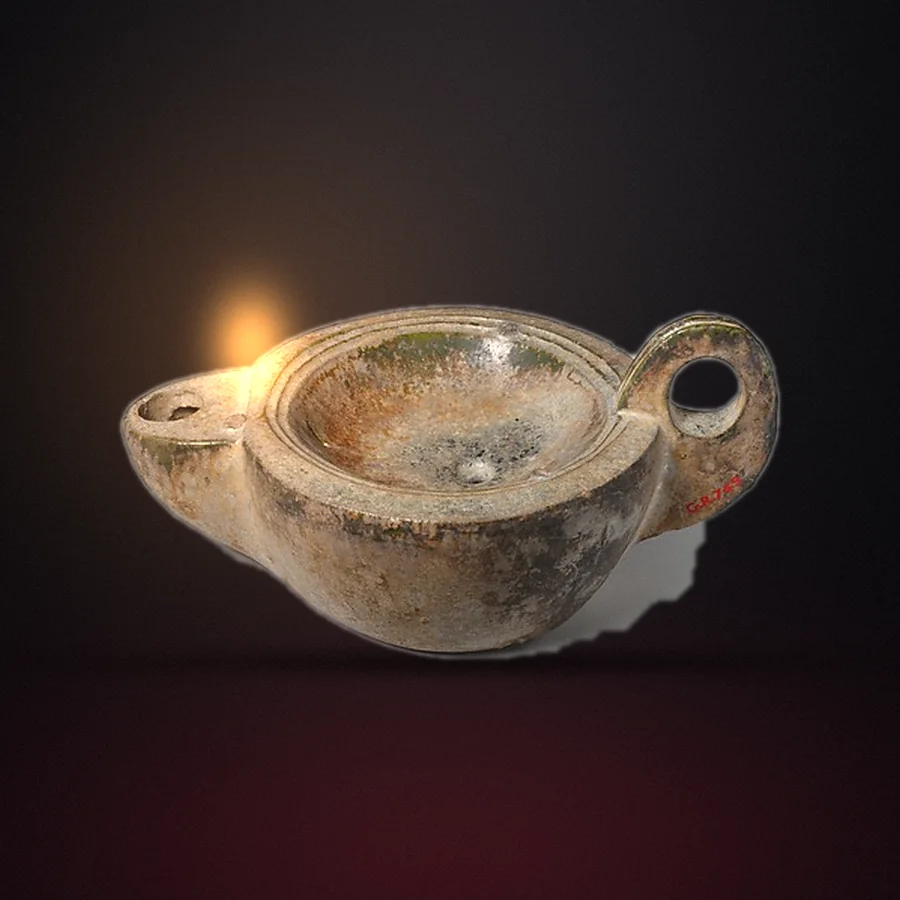
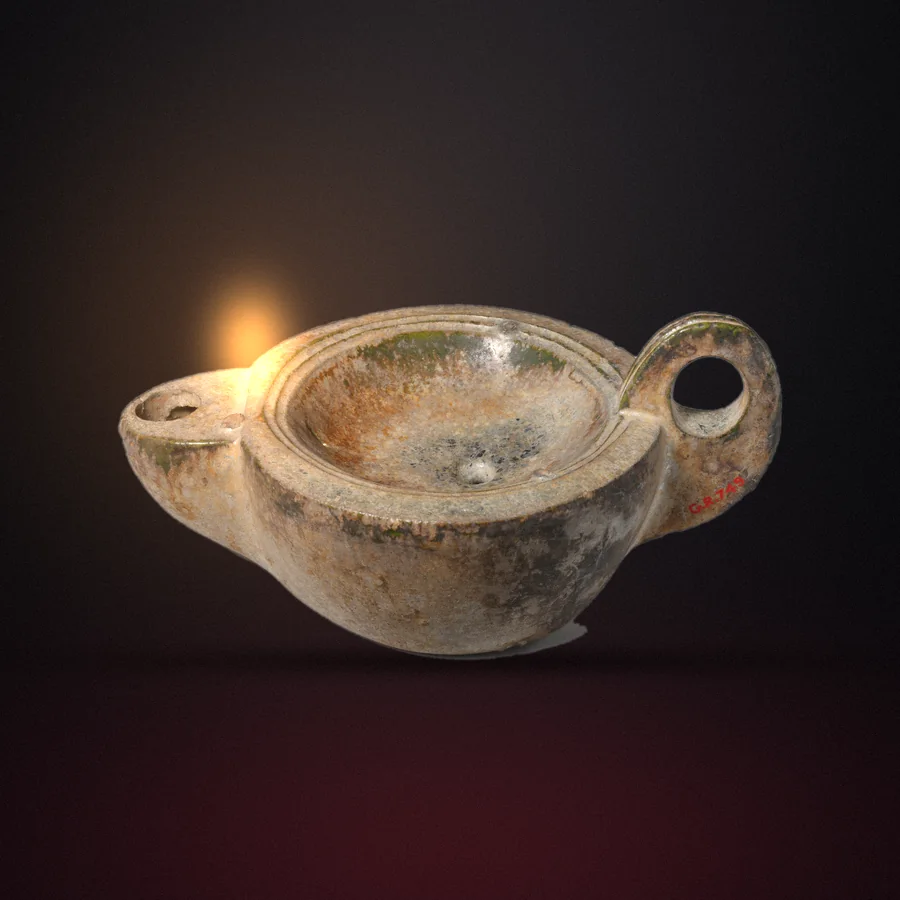
the-rising-archive: audit round: contrast, notice, grids, a timeline spoiler, idea readings, cleaner cut-outs
- Contrast: ash-2 was 3.6:1 on the page and ~3:1 on the card wash across
  133 labels; now 4.6:1 on the wash, ash a step up to keep the levels
  apart. Small red text takes a lighter red (pure red is 3.4:1).
- 13px floor for labels, credits, stamps and badges.
- The sealed-passages notice no longer covers content: it sits in the
  empty band under the header and scrolls away, one line at 320px.
- Hairline grids draw a ring per cell instead of painting the grid slate,
  so rows that aren't full no longer show solid slate blocks.
- Timeline: event titles ('The Fall of Luna', 'The Solar Republic')
  leaked at every clearance; below a node's book it reads 'An event in
  <book>' and the title opens with the seal. Same for the no-JS list.
- Freedom, Revolution, Honor, Legacy and Fatherhood open with a
  spoiler-free reading instead of nothing but seals at clearance 0.
- The Augustus lion loses its museum plinth; lion, fox and lamp come from
  the Met's full-resolution originals with the grey scraps removed.
- Holotech stamp spacing, transition-all in the vendored button/switch,
  the search placeholder, and a stale 'rendered' caption.

Claude-Session: https://claude.ai/code/session_013FcwhpvnvFTAqo8e5UMege

diff --git a/the-rising-archive/lib/data/ideas.ts b/the-rising-archive/lib/data/ideas.ts
@@ -22,6 +22,7 @@ export const IDEAS: Idea[] = [
     plate: "/images/rising/movement.webp",
     plateAlt: "Washington Crossing the Delaware: a boat of rebels crossing a frozen river.",
     lines: [
+      { text: "The Society is built so that every Color knows its place and never leaves it. Freedom here isn’t one thing: it means something different to each Color, because each was made for a different cage.", book: 0 },
       { text: "It starts with Eo, who asks Darrow to live for more than survival, and pays for the asking.", book: 1 },
       { text: "The first trilogy is about getting free. The second is about what freedom is worth to a Red girl in a refugee camp ten years later. Lyria’s chapters in Iron Gold ask the question the Rising didn’t have time to.", book: 4 },
     ],
@@ -44,6 +45,7 @@ export const IDEAS: Idea[] = [
     plate: "/images/rising/government.webp",
     plateAlt: "The Death of Socrates: a state executes its own philosopher.",
     lines: [
+      { text: "Tearing a hierarchy down and deciding what to build in its place are two different problems, and the saga treats both of them as the story.", book: 0 },
       { text: "The Rising wins. That is where the hard part starts.", book: 3 },
       { text: "The Republic keeps the Senate, the fleets and the broadcasts. It has to decide how much else of the old world to keep, and every choice is someone else’s betrayal.", book: 4 },
     ],
@@ -55,7 +57,9 @@ export const IDEAS: Idea[] = [
     plate: "/images/portraits/cassius.webp",
     plateAlt: "Cassius au Bellona, in fan art.",
     portrait: { slug: "cassius", name: "Cassius au Bellona" },
-    lines: [],
+    lines: [
+      { text: "Honor sounds like one word. In the Society it means something different to everyone who uses it: a family inheritance, a code of combat, a debt to a people, an argument for keeping everyone in their place. Four people below, four definitions.", book: 0 },
+    ],
     pairs: [
       { a: "Cassius", b: "Honour as inheritance", note: "The thing he was raised on, and has to relearn after it is used against him.", book: 1 },
       { a: "Lorn", b: "Honour as refusal", note: "A legend of the razor who tried to step away from the Society’s violence.", book: 2 },
@@ -71,7 +75,9 @@ export const IDEAS: Idea[] = [
     plateAlt: "The cover of Light Bringer.",
     plateW: 900,
     plateH: 1350,
-    lines: [],
+    lines: [
+      { text: "Legacy is what gets handed down whether anyone wants it or not: a name, a Color, a grudge, a dream. The saga keeps checking what each person was given, and what they chose to keep.", book: 0 },
+    ],
     pairs: [
       { a: "Eo", b: "A dream", note: "That a life could be more than labour.", book: 1 },
       { a: "Darrow", b: "A war", note: "Fought to make the dream possible.", book: 3 },
@@ -87,7 +93,9 @@ export const IDEAS: Idea[] = [
     plate: "/images/portraits/pax.webp",
     plateAlt: "Pax, in fan art.",
     portrait: { slug: "pax", name: "Pax" },
-    lines: [],
+    lines: [
+      { text: "The saga keeps returning to what parents hand their children: a name, a cause, a debt, a way of seeing the world. Each pairing below is a parent, a child, and what passed between them.", book: 0 },
+    ],
     pairs: [
       { a: "Fitchner", b: "Sevro", note: "A father his son thought didn’t care.", book: 1 },
       { a: "Nero", b: "Virginia and Adrius", note: "Two children, raised to win. One refused.", book: 2 },

diff --git a/the-rising-archive/components/sections/Timeline.tsx b/the-rising-archive/components/sections/Timeline.tsx
@@ -7,6 +7,8 @@ import { ScrollTrigger } from "gsap/ScrollTrigger";
 import { useGSAP } from "@gsap/react";
 import SpoilerGate from "@/components/archive/SpoilerGate";
 import Stamp from "@/components/archive/Stamp";
+import { useArchive } from "@/components/providers/ArchiveProvider";
+import { BOOK_TITLES } from "@/lib/data/spoilers";
 import { TIMELINE, type TimelineNode } from "@/lib/data/timeline";
 import { cssEase, duration, prefersReducedMotion } from "@/lib/animation/tokens";
 import { cn } from "@/lib/utils";
@@ -22,10 +24,11 @@ function Field({ label, children }: { label: string; children: React.ReactNode }
   );
 }
 
-function NodeBody({ node }: { node: TimelineNode }) {
+function NodeBody({ node, named }: { node: TimelineNode; named: boolean }) {
   return (
     <dl className="grid gap-6 pt-6 pb-2 md:grid-cols-2">
       <div className="md:col-span-2">
+        {!named && <p className="mb-2 font-display text-h3 leading-none font-bold text-bone uppercase">{node.title}</p>}
         <p className="max-w-[62ch] text-lede text-bone">{node.summary}</p>
       </div>
       {node.where && <Field label="Where">{node.where}</Field>}
@@ -42,6 +45,9 @@ export default function Timeline() {
   const [open, setOpen] = useState<string | null>("eo");
   const reduce = useReducedMotion();
   const ref = useRef<HTMLOListElement>(null);
+  // Titles spoil too ("The Fall of Luna"): below the node's book the list
+  // says only which book it happens in, and the title waits inside the seal.
+  const { clearance } = useArchive();
 
   useGSAP(
     () => {
@@ -70,6 +76,7 @@ export default function Timeline() {
       {TIMELINE.map((node) => {
         const isOpen = open === node.slug;
         const sealed = node.status === "sealed";
+        const named = clearance >= node.book;
         return (
           <li key={node.slug} className="relative grid gap-2 pb-10 pl-10 md:grid-cols-[120px_1fr] md:gap-10 md:pl-0">
             <span className="font-mono text-meta leading-7 tracking-[0.14em] text-ash uppercase md:text-right">{node.when}</span>
@@ -100,9 +107,10 @@ export default function Timeline() {
                       className={cn(
                         "-my-1 py-1 text-left font-display text-h3 leading-none font-bold uppercase transition-colors",
                         isOpen ? "text-bone" : "text-bone/70 hover:text-bone",
+                        !named && "text-ash",
                       )}
                     >
-                      {node.title}
+                      {named ? node.title : `An event in ${BOOK_TITLES[node.book]}`}
                     </button>
                   </h3>
                   <AnimatePresence initial={false}>
@@ -118,7 +126,7 @@ export default function Timeline() {
                       >
                         <div className="pt-2">
                           <SpoilerGate book={node.book} compact>
-                            <NodeBody node={node} />
+                            <NodeBody node={node} named={named} />
                           </SpoilerGate>
                         </div>
                       </motion.div>

diff --git a/the-rising-archive/components/archive/SealedNotice.tsx b/the-rising-archive/components/archive/SealedNotice.tsx
@@ -8,7 +8,9 @@ import { CLEARANCE_LEVELS } from "@/lib/data/spoilers";
 
 /** At low clearance a page can be mostly sealed bars, which reads as empty.
  * This says so plainly, counts what is sealed, and offers the two real
- * choices: unseal this page only, or change clearance. */
+ * choices: unseal this page only, or change clearance. It sits in the empty
+ * band under the header at the top of the page and scrolls away with it:
+ * as a fixed pill it covered text and sealed rows on nearly every page. */
 export default function SealedNotice() {
   const pathname = usePathname();
   const { clearance, known, openClearance } = useArchive();
@@ -32,22 +34,22 @@ export default function SealedNotice() {
   return (
     <aside
       aria-label="Sealed passages on this page"
-      className="fixed right-4 bottom-4 z-30 flex max-w-[calc(100vw-2rem)] flex-wrap items-center gap-x-4 gap-y-2 border border-line-strong bg-void-2/95 py-2.5 pr-2 pl-4 font-mono text-[0.68rem] tracking-[0.16em] text-ash uppercase shadow-[0_10px_40px_rgba(0,0,0,0.6)] backdrop-blur-md"
+      className="absolute top-[calc(var(--nav-h)+0.75rem)] right-5 z-30 flex max-w-[calc(100vw-2.5rem)] items-center gap-x-2.5 border border-line-strong bg-void-2/90 py-0.5 pr-0.5 pl-3 font-mono text-meta tracking-[0.08em] whitespace-nowrap text-ash uppercase sm:tracking-[0.14em] md:right-8 md:gap-x-4"
     >
       <span>
-        <span className="text-bone">{count}</span> sealed here <span className="text-ash-2">({lvl?.short})</span>
+        <span className="text-bone">{count}</span> sealed<span className="hidden sm:inline"> here ({lvl?.short})</span>
       </span>
       <button
         type="button"
         onClick={() => document.querySelectorAll<HTMLDetailsElement>("main details.spoiler").forEach((d) => (d.open = true))}
-        className="text-bone underline decoration-red underline-offset-4 hover:text-red"
+        className="py-1.5 text-bone underline decoration-red underline-offset-4 hover:text-red"
       >
-        Unseal this page
+        Unseal<span className="hidden sm:inline"> this page</span>
       </button>
-      <button type="button" onClick={openClearance} className="hover:text-bone">
+      <button type="button" onClick={openClearance} className="py-1.5 hover:text-bone">
         Clearance
       </button>
-      <button type="button" aria-label="Dismiss" onClick={() => setDismissed(pathname)} className="flex size-7 items-center justify-center text-ash-2 hover:text-bone">
+      <button type="button" aria-label="Dismiss" onClick={() => setDismissed(pathname)} className="flex size-8 items-center justify-center text-ash hover:text-bone">
         <X className="size-3.5" strokeWidth={1.5} />
       </button>
     </aside>

diff --git a/the-rising-archive/app/people/[slug]/page.tsx b/the-rising-archive/app/people/[slug]/page.tsx
@@ -50,7 +50,7 @@ function Special({ person }: { person: Person }) {
           <h2 className="font-display text-h3 font-bold uppercase">The same man, two columns</h2>
           <p className="mt-3 max-w-[56ch] text-ash">The archive does not tell you which column is true. Let the contradiction breathe.</p>
           <SpoilerGate book={4} className="mt-10">
-            <div className="mt-10 grid gap-px bg-line md:grid-cols-2">
+            <div className="mt-10 grid hairline md:grid-cols-2">
               <Spotlight tone="gold" lift={false} className="bg-void p-8">
                 <p className="font-mono text-meta tracking-[0.18em] text-gold uppercase">What Lysander believes</p>
                 <ul className="mt-6 space-y-3 font-serif text-3xl" role="list">
@@ -140,7 +140,7 @@ export default async function DossierPage({ params }: PageProps<"/people/[slug]"
             <span aria-hidden className={cn("h-px w-12", RULE_CLASS[person.register])} />
             <p className={cn("font-serif text-h3 italic", ACCENT_CLASS[person.register])}><PersonName person={person} part="epithet" /></p>
             {person.epithetSource === "archive" && (
-              <span className="border border-line-strong px-1.5 py-0.5 font-mono text-[0.65rem] tracking-[0.18em] text-ash-2 uppercase">The archive’s name, not the books’</span>
+              <span className="border border-line-strong px-1.5 py-0.5 font-mono text-meta tracking-[0.18em] text-ash-2 uppercase">The archive’s name, not the books’</span>
             )}
           </div>
           <dl className="mt-12 grid max-w-4xl gap-6 md:grid-cols-3">
@@ -237,7 +237,7 @@ export default async function DossierPage({ params }: PageProps<"/people/[slug]"
         <section aria-label="Core relationships" className="border-t border-line px-5 py-20 md:px-8">
           <div className="mx-auto max-w-[1400px]">
             <h2 className="font-display text-h3 font-bold uppercase">Core relationships</h2>
-            <ul className="mt-8 grid gap-px bg-line md:grid-cols-4" role="list">
+            <ul className="mt-8 grid hairline md:grid-cols-4" role="list">
               {person.bonds.map((b) => (
                 <Spotlight as="li" tone="red" key={b.name} className="bg-void p-6">
                   <p className="font-display text-2xl font-bold uppercase">{b.name}</p>

diff --git a/the-rising-archive/app/world/houses/[slug]/page.tsx b/the-rising-archive/app/world/houses/[slug]/page.tsx
@@ -72,7 +72,7 @@ export default async function HousePage({ params }: PageProps<"/world/houses/[sl
           </div>
           <figure>
             <Plate src={h.plate} alt={altFor(h.plate, `The ${h.name} seal.`)} priority className="border border-line" />
-            <figcaption className="mt-3 font-mono text-[0.7rem] tracking-[0.12em] text-ash-2 uppercase">A stand-in for the house’s sign. {creditLine(h.plate)}</figcaption>
+            <figcaption className="mt-3 font-mono text-meta tracking-[0.12em] text-ash-2 uppercase">A stand-in for the house’s sign. {creditLine(h.plate)}</figcaption>
           </figure>
         </div>
       </header>
@@ -80,7 +80,7 @@ export default async function HousePage({ params }: PageProps<"/world/houses/[sl
       <section aria-labelledby="members" className="border-t border-line px-5 py-20 md:px-8">
         <div className="mx-auto grid max-w-[1400px] gap-12 md:grid-cols-[3fr_9fr]">
           <h2 id="members" className="font-mono text-meta tracking-[0.18em] text-ash-2 uppercase md:pt-2">The family file</h2>
-          <ul role="list" className="grid gap-px bg-line">
+          <ul role="list" className="grid hairline">
             {h.members.map((m) => (
               <li key={m.name} className="bg-void py-6 md:px-6">
                 <SpoilerGate book={m.book} compact>
@@ -104,7 +104,7 @@ export default async function HousePage({ params }: PageProps<"/world/houses/[sl
         <section aria-labelledby="artifacts" className="border-t border-line px-5 py-20 md:px-8">
           <div className="mx-auto grid max-w-[1400px] gap-12 md:grid-cols-[3fr_9fr]">
             <h2 id="artifacts" className="font-mono text-meta tracking-[0.18em] text-ash-2 uppercase md:pt-2">Archive artifacts</h2>
-            <ol className="grid gap-px bg-line sm:grid-cols-2">
+            <ol className="grid hairline sm:grid-cols-2">
               {h.artifacts.map((a, i) => (
                 <Spotlight as="li" tone="gold" key={a.title} className="bg-void p-6 md:p-8">
                   <p className="font-mono text-meta tracking-[0.2em] text-red uppercase">Item {String(i + 1).padStart(2, "0")}</p>

diff --git a/the-rising-archive/app/world/vault/page.tsx b/the-rising-archive/app/world/vault/page.tsx
@@ -25,11 +25,11 @@ export default function VaultPage() {
         lede="The machinery of the war, catalogued like museum pieces. Where something real comes close, it stands in: a real sword for the razor, real armour for the StarShell, a video game’s warships for the fleet, a hairpin for the PsychoSpike."
       />
       <section aria-label="Artifacts" className="px-5 pb-20 md:px-8">
-        <ul role="list" className="mx-auto grid max-w-[1400px] gap-px bg-line md:grid-cols-2">
+        <ul role="list" className="mx-auto grid max-w-[1400px] hairline md:grid-cols-2">
           {VAULT.map((a, i) => (
             <Reveal as="li" cell key={a.slug} delay={(i % 2) * 0.06} className="bg-void">
               <Spotlight as="article" tone="red" className={cn("grid h-full gap-0 sm:grid-cols-2", i % 4 >= 2 && "sm:[&>*:first-child]:order-2")}>
-                <Plate src={a.plate} alt={altFor(a.plate, `${a.name}, rendered for this archive.`)} className="aspect-square object-cover" sizes="(min-width: 768px) 25vw, 50vw" />
+                <Plate src={a.plate} alt={altFor(a.plate, `${a.name}.`)} className="aspect-square object-cover" sizes="(min-width: 768px) 25vw, 50vw" />
                 <div className="flex flex-col p-6 md:p-8">
                   <h2 className="font-display text-3xl leading-none font-bold uppercase">{a.name}</h2>
                   <p className="mt-3 font-serif text-lg text-bone/90 italic">{a.line}</p>
@@ -40,8 +40,8 @@ export default function VaultPage() {
                       </SpoilerGate>
                     ))}
                   </div>
-                  {a.reading && <Stamp kind="reading" className="mt-auto self-start pt-0" />}
-                  <p className="mt-6 font-mono text-[0.7rem] tracking-[0.12em] text-ash-2 uppercase">{creditLine(a.plate) || "Archive render"}</p>
+                  {a.reading && <Stamp kind="reading" className="mt-5 self-start" />}
+                  <p className="mt-6 font-mono text-meta tracking-[0.12em] text-ash-2 uppercase">{creditLine(a.plate) || "Archive render"}</p>
                 </div>
               </Spotlight>
             </Reveal>

diff --git a/the-rising-archive/app/globals.css b/the-rising-archive/app/globals.css
@@ -25,8 +25,8 @@
   --line-strong: #3a3a45;
 
   --bone: #e9e4da;
-  --ash: #938f88;
-  --ash-2: #6b6862;
+  --ash: #a39f97;
+  --ash-2: #8a867f;
 
   --red: #c41e2a;
   --red-deep: #7a0f17;
@@ -131,7 +131,7 @@
 
   /* type scale: editorial, dramatic at the top, calm in the body */
   --text-eyebrow: 0.6875rem;
-  --text-meta: 0.75rem;
+  --text-meta: 0.8125rem;
   --text-body: 1.0625rem;
   --text-lede: clamp(1.2rem, 1.1rem + 0.6vw, 1.5rem);
   --text-h3: clamp(1.4rem, 1.2rem + 0.8vw, 1.9rem);
@@ -284,6 +284,20 @@ nav[aria-label="Breadcrumb"] a {
   .gold-foil { background: none; color: CanvasText; }
 }
 
+/* Hairline grids: cells separated by 1px lines. Each cell draws its own
+   ring into the gap, instead of the grid painting its whole background in
+   the line colour, which showed as a solid slate block wherever a row
+   wasn't full (and through the gap while a cell moved). Empty cells now
+   show the page. */
+@layer components {
+  .hairline {
+    gap: 1px;
+  }
+  .hairline > * {
+    box-shadow: 0 0 0 1px var(--line);
+  }
+}
+
 @layer components {
 .wash-card {
   --w-rest: rgba(122, 15, 23, 0.42);
@@ -374,6 +388,13 @@ nav[aria-label="Breadcrumb"] a {
     transition-duration: 150ms;
   }
 }
+}
+
+/* Pure red is 3.4:1 on the page, fine for display type but not for small
+   labels. Small red text takes a lighter red (5:1 on the page, 4.5:1 in
+   the burgundy corners); large red type keeps the true accent. */
+:is(.text-meta, .text-sm, .text-xs).text-red {
+  color: #e0474f;
 }
 
 /* Pure red is 3.2:1 on the burgundy wash; this lighter red is 5.2:1 on

diff --git a/the-rising-archive/components/people/ExtendedDossier.tsx b/the-rising-archive/components/people/ExtendedDossier.tsx
@@ -87,7 +87,7 @@ export default function ExtendedDossier({ person }: { person: ExtendedPerson }) 
               <span aria-hidden className={cn("h-px w-12", RULE_CLASS[person.register])} />
               <p className={cn("font-serif text-h3 italic", ACCENT_CLASS[person.register])}>{person.epithet}</p>
               {person.epithetSource === "archive" && (
-                <span className="border border-line-strong px-1.5 py-0.5 font-mono text-[0.65rem] tracking-[0.18em] text-ash-2 uppercase">
+                <span className="border border-line-strong px-1.5 py-0.5 font-mono text-meta tracking-[0.18em] text-ash-2 uppercase">
                   The archive’s name, not the books’
                 </span>
               )}
@@ -169,7 +169,7 @@ export default function ExtendedDossier({ person }: { person: ExtendedPerson }) 
       <section aria-labelledby="connections" className="border-t border-line px-5 py-20 md:px-8">
         <div className="mx-auto max-w-[1400px]">
           <Label id="connections">Connections</Label>
-          <ul role="list" className="mt-8 grid gap-px bg-line sm:grid-cols-2 lg:grid-cols-4">
+          <ul role="list" className="mt-8 grid hairline sm:grid-cols-2 lg:grid-cols-4">
             {person.connections.map((c) => {
               const body = (
                 <SpoilerGate book={c.book} compact>

diff --git a/the-rising-archive/app/story/books/[slug]/page.tsx b/the-rising-archive/app/story/books/[slug]/page.tsx
@@ -74,7 +74,7 @@ export default async function BookPage({ params }: PageProps<"/story/books/[slug
           </div>
           <figure className="mx-auto w-full max-w-[360px] md:mx-0 md:justify-self-end">
             <Plate src={coverSrc(book.slug)} alt={`Cover of ${book.title} by Pierce Brown.`} width={900} height={1350} priority className="border border-line" sizes="(min-width: 768px) 30vw, 80vw" />
-            <figcaption className="mt-3 font-mono text-[0.65rem] tracking-[0.18em] text-ash-2 uppercase">{COVER_CREDIT}</figcaption>
+            <figcaption className="mt-3 font-mono text-meta tracking-[0.18em] text-ash-2 uppercase">{COVER_CREDIT}</figcaption>
           </figure>
         </div>
       </header>
@@ -137,7 +137,7 @@ export default async function BookPage({ params }: PageProps<"/story/books/[slug
           <div>
             <h2 className="font-display text-2xl font-bold uppercase">Key memories</h2>
             <SpoilerGate book={book.n} compact className="mt-6">
-              <ul className="mt-6 grid grid-cols-2 gap-px bg-line" role="list">
+              <ul className="mt-6 grid grid-cols-2 hairline" role="list">
                 {book.memories.map((m) => (
                   <li key={m} className="bg-void px-4 py-3 text-sm text-ash">
                     {m}

diff --git a/the-rising-archive/app/fandom/page.tsx b/the-rising-archive/app/fandom/page.tsx
@@ -61,7 +61,7 @@ export default function FandomPage() {
             <h2 id="args" className="font-display text-h2 leading-none font-bold uppercase">The great arguments</h2>
             <Stamp kind="argued" />
           </div>
-          <ol role="list" className="mt-10 grid gap-px bg-line md:grid-cols-2">
+          <ol role="list" className="mt-10 grid hairline md:grid-cols-2">
             {ARGUMENTS.map((a, i) => (
               <Reveal as="li" cell key={a.q} delay={(i % 2) * 0.05} className="bg-void">
                 <Spotlight tone="red" className="h-full p-7 md:p-10">
@@ -110,7 +110,7 @@ export default function FandomPage() {
           <p className="mt-5 max-w-[60ch] text-ash">
             The names readers keep returning to in discussion threads. Not a ranking: no formal poll was found, so this is a chorus, and the loudest voices are argued about as much as they are loved.
           </p>
-          <ul role="list" className="mt-12 grid gap-px bg-line sm:grid-cols-2 lg:grid-cols-4">
+          <ul role="list" className="mt-12 grid hairline sm:grid-cols-2 lg:grid-cols-4">
             {CHORUS.map((c) => (
               <Spotlight as="li" tone="red" key={c.name} className="bg-void p-7">
                 <SpoilerGate book={c.book} compact>

diff --git a/the-rising-archive/app/story/timeline/page.tsx b/the-rising-archive/app/story/timeline/page.tsx
@@ -25,14 +25,21 @@ export default function TimelinePage() {
           <ul className="mx-auto mt-16 grid max-w-[1100px] gap-6">
             {TIMELINE.map((n) => (
               <li key={n.slug}>
-                <strong>{n.title}</strong> ({n.when})
                 {n.book > 0 ? (
-                  <details className="spoiler mt-2">
-                    <summary className="text-ash">Sealed. Contains {BOOK_TITLES[n.book]}. Open</summary>
-                    <p>{n.summary}</p>
-                  </details>
+                  <>
+                    <strong>An event in {BOOK_TITLES[n.book]}</strong> ({n.when})
+                    <details className="spoiler mt-2">
+                      <summary className="text-ash">Sealed. Contains {BOOK_TITLES[n.book]}. Open</summary>
+                      <p>
+                        <strong>{n.title}.</strong> {n.summary}
+                      </p>
+                    </details>
+                  </>
                 ) : (
-                  <p>{n.summary}</p>
+                  <>
+                    <strong>{n.title}</strong> ({n.when})
+                    <p>{n.summary}</p>
+                  </>
                 )}
               </li>
             ))}

diff --git a/the-rising-archive/components/ui/switch.tsx b/the-rising-archive/components/ui/switch.tsx
@@ -16,7 +16,7 @@ function Switch({
       data-slot="switch"
       data-size={size}
       className={cn(
-        "peer group/switch inline-flex shrink-0 items-center rounded-none border border-transparent shadow-xs transition-all outline-none focus-visible:border-ring focus-visible:ring-[3px] focus-visible:ring-ring/50 disabled:cursor-not-allowed disabled:opacity-50 data-[size=default]:h-[1.15rem] data-[size=default]:w-8 data-[size=sm]:h-3.5 data-[size=sm]:w-6 data-[state=checked]:bg-primary data-[state=unchecked]:bg-input dark:data-[state=unchecked]:bg-input/80",
+        "peer group/switch inline-flex shrink-0 items-center rounded-none border border-transparent shadow-xs transition-[color,background-color,border-color,box-shadow] outline-none focus-visible:border-ring focus-visible:ring-[3px] focus-visible:ring-ring/50 disabled:cursor-not-allowed disabled:opacity-50 data-[size=default]:h-[1.15rem] data-[size=default]:w-8 data-[size=sm]:h-3.5 data-[size=sm]:w-6 data-[state=checked]:bg-primary data-[state=unchecked]:bg-input dark:data-[state=unchecked]:bg-input/80",
         className
       )}
       {...props}
